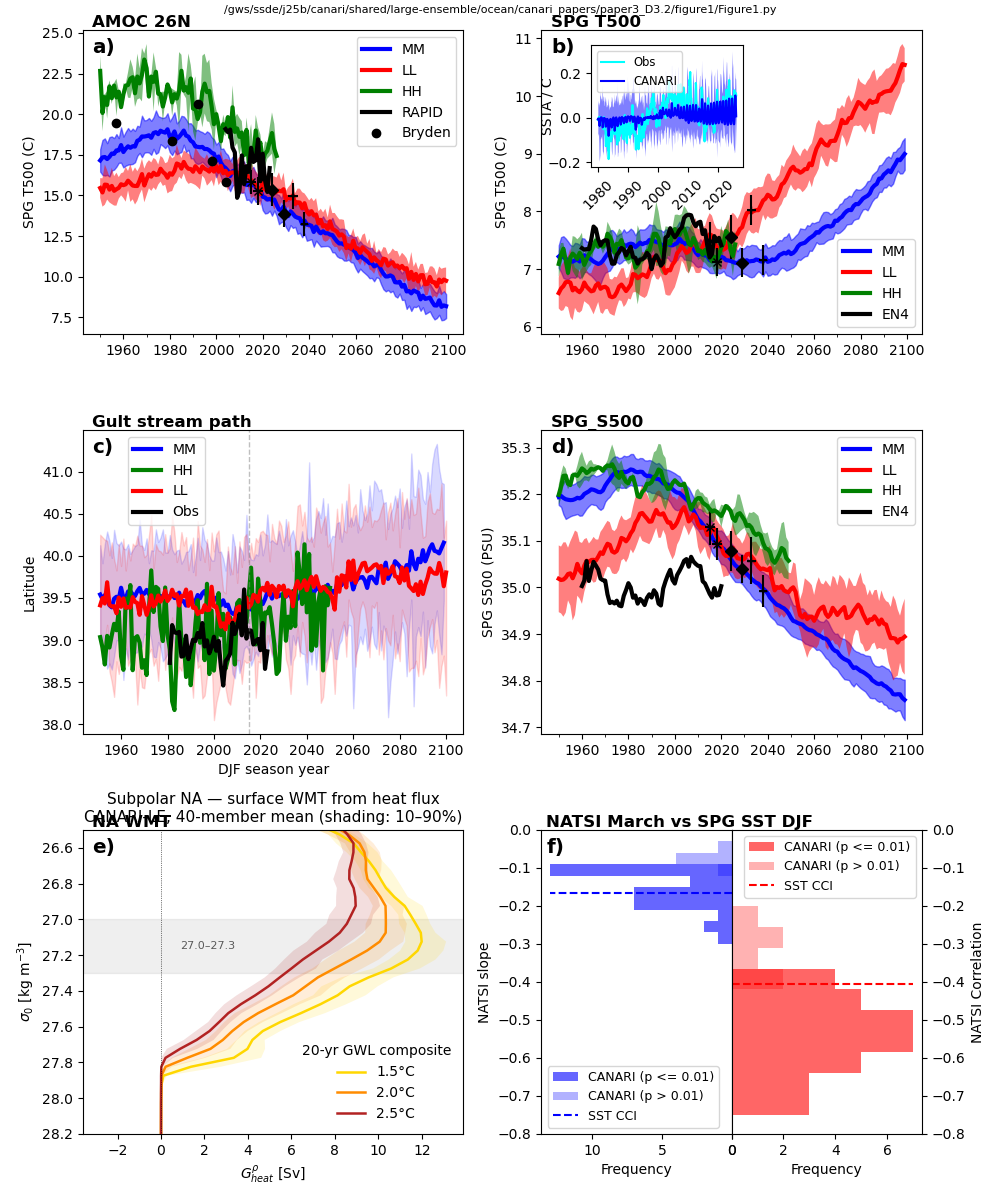
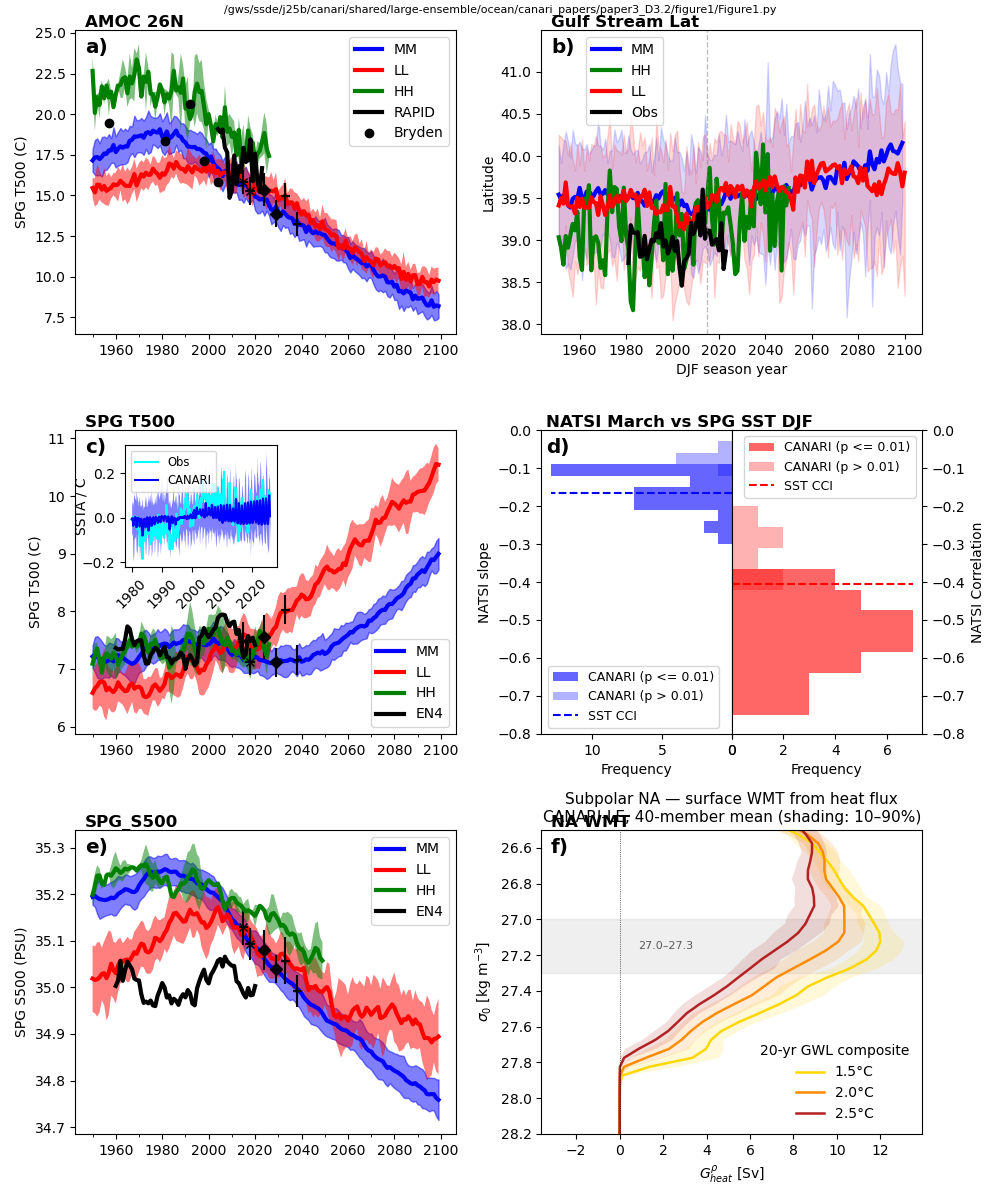
Update plots

diff --git a/CANARI/D3.2/Figure1/Figure1_3062785b.html b/CANARI/D3.2/Figure1/Figure1_3062785b.html
@@ -2,7 +2,7 @@
 <html>
 <head>
   <meta charset="utf-8">
-  <title>Figure 1 for D3.2 CANARI Ocean section</title>
+  <title>Figure 1 for D3.2 CANARI Ocean section Alternate</title>
   <style>
     body {
       font-family: sans-serif;
@@ -31,8 +31,8 @@
 <div class="nav">
     <a href="index.html">⬅ Back to gallery</a>
   </div>
-  <img src="Figure1.png" alt="Figure 1 for D3.2 CANARI Ocean section">
-  <div class="title">Figure 1 for D3.2 CANARI Ocean section</div>
+  <img src="Figure1.png" alt="Figure 1 for D3.2 CANARI Ocean section Alternate">
+  <div class="title">Figure 1 for D3.2 CANARI Ocean section Alternate</div>
   <div class="path">/gws/ssde/j25b/canari/shared/large-ensemble/ocean/canari_papers/paper3_D3.2/figure1/Figure1.png</div>
 </body>
 </html>

diff --git a/CANARI/D3.2/Figure1/index.html b/CANARI/D3.2/Figure1/index.html
@@ -37,6 +37,13 @@
         </a>
     </div>
     
+
+    <div class="plot">
+        <a href="Figure1_3062785b.html" target="_blank">
+            <img src="Figure1.png" width="100%" title="Figure 1 for D3.2 CANARI Ocean section Alternate">
+        </a>
+    </div>
+    
 </div>
 </body>
 </html>
